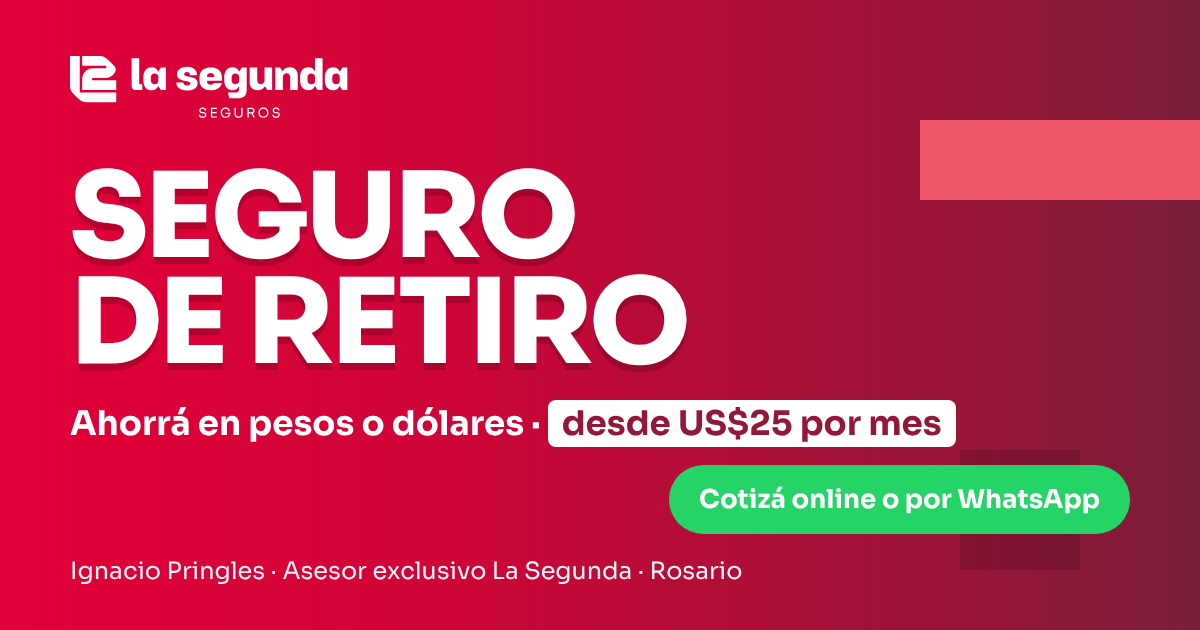
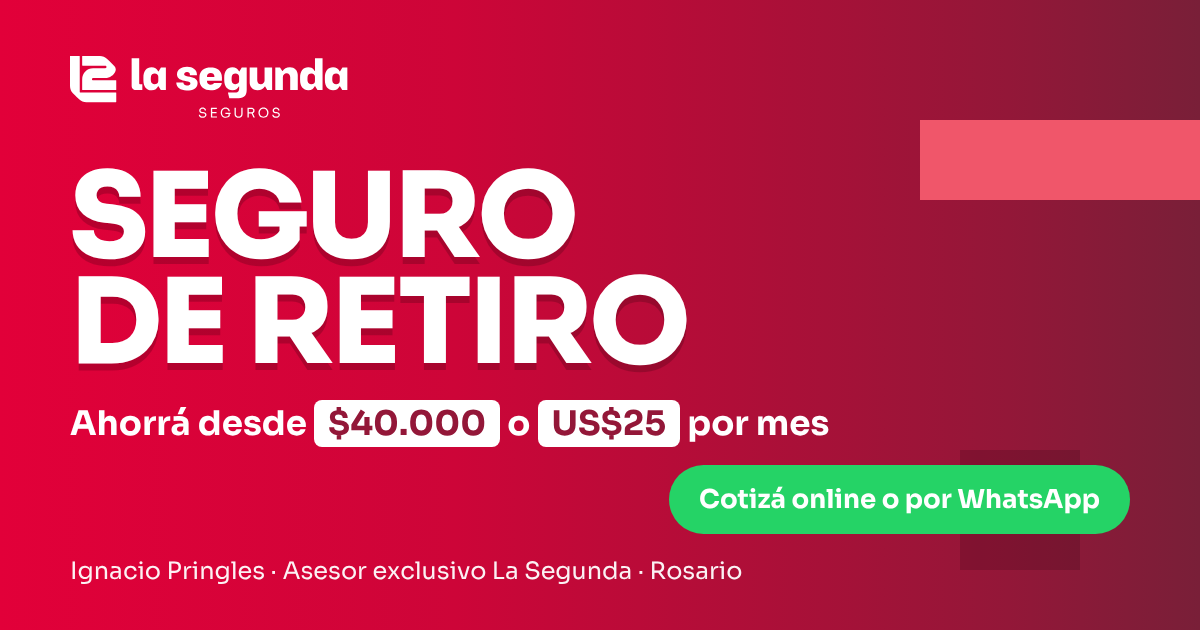
Mínimo en pesos junto al de dólares
Claude-Session: https://claude.ai/code/session_01ToSZk1X4eUqrP4ASEFfJf7

Changed region(s): [[0.1542, 0.6333, 0.8017, 0.7238]]

diff --git a/retiro/index.html b/retiro/index.html
@@ -4,7 +4,7 @@
 <meta charset="UTF-8">
 <meta name="viewport" content="width=device-width, initial-scale=1">
 <title>Seguro de Retiro La Segunda | En pesos o dólares | Ignacio Pringles, Rosario</title>
-<meta name="description" content="Seguro de Retiro de La Segunda en pesos o dólares, desde US$25 por mes. Cotizá y contratá online o hablá por WhatsApp con Ignacio Pringles, asesor exclusivo en Rosario.">
+<meta name="description" content="Seguro de Retiro de La Segunda desde $40.000 por mes en pesos o US$25 en dólares. Cotizá y contratá online o hablá por WhatsApp con Ignacio Pringles, asesor exclusivo en Rosario.">
 <meta name="keywords" content="seguro de retiro, seguro de retiro La Segunda, ahorro en dólares, plan de retiro, jubilación privada, Futuro Protegido, seguros Rosario, productor de seguros Rosario">
 <meta name="author" content="Ignacio Pringles – Productor Asesor de Seguros, Mat. SSN 67.085">
 <meta name="robots" content="index, follow">
@@ -15,7 +15,7 @@
 <meta property="og:type" content="website">
 <meta property="og:locale" content="es_AR">
 <meta property="og:site_name" content="Ignacio Pringles · Asesor exclusivo La Segunda">
-<meta property="og:title" content="Seguro de Retiro – Ahorrá en pesos o dólares desde US$25 por mes">
+<meta property="og:title" content="Seguro de Retiro – Ahorrá desde $40.000 por mes o US$25 en dólares">
 <meta property="og:description" content="Cotizá y contratá online, o hablá por WhatsApp con tu asesor exclusivo de La Segunda.">
 <meta property="og:image" content="https://tuasesordigital.com.ar/retiro/og-imagen.png">
 <meta property="og:image:width" content="1200">
@@ -224,7 +224,7 @@ footer b{color:#fff}
             Hablar por WhatsApp
           </a>
         </div>
-        <div class="trust"><span>En pesos o dólares</span><span>Desde US$25 por mes</span><span>Sin papeles</span></div>
+        <div class="trust"><span>En pesos: desde $40.000 por mes</span><span>En dólares: desde US$25 por mes</span><span>Sin papeles</span></div>
       </div>
 
       <div class="card-hero" aria-hidden="true">
